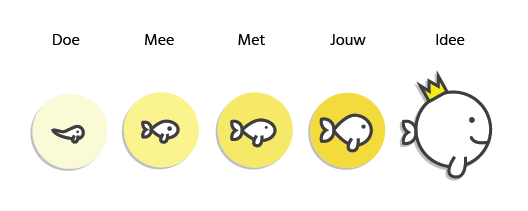
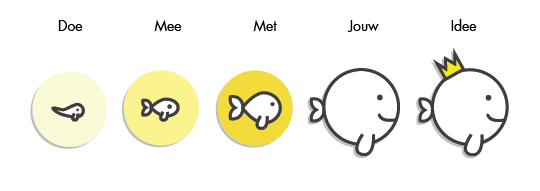
badges

diff --git a/src/client/js/IdeaOverviewPage.js b/src/client/js/IdeaOverviewPage.js
@@ -1,6 +1,7 @@
 //=require Menu.js
 //=require VoteButtons.js
 //=require Models.js
+//=require Badge.js
 
 var IdeaOverviewPage = {
     view: function() {
@@ -60,7 +61,7 @@ var SubmitCard = {
     view: function(ctrl) {
         return m("form", {class: "ui card", onsubmit: ctrl.submit.bind(ctrl)}, [
             m("input", {class: "ui", name: "title", placeholder: "Geef je idee een titel..."}),
-            m("textarea", {class: "ui", name: "summary", placeholder: "Omschrijf je idee..."}),
+            m("textarea", {class: "ui", name: "summary", placeholder: "Omschrijf kort je idee..."}),
             (function(){
                 if(!ctrl.emailisvisible()) return m("input", {class: "ui", name: "email", placeholder: "Email adres..."});
             })(),
@@ -99,15 +100,10 @@ var IdeaCard = {
     },
     view: function(ctrl, data){
         ctrl.id = data._id;
-        var image = data.additions+1;
-        if(image > 4) {
-            image = 4;
-        }
-
         return m("div", {class: "ui card ideacard"}, [
             m("div", {class: "top"},[
                 m("div", {class: "status"}, [
-                    m("img", {src:"static/stage"+image+".png"})
+                    m.component(Badge, data.additions)
                 ]),
                 m("div", {class: "info"}, [
                     m("h3",{class: "ui", onclick: ctrl.open.bind(ctrl)}, data.title),

diff --git a/src/client/js/IdeaDetailPage.js b/src/client/js/IdeaDetailPage.js
@@ -3,6 +3,7 @@
 //=require Models.js
 //=require SwitchBar.js
 //=require MediaInput.js
+//=require Badge.js
 
 var IdeaDetailPage = {
     controller: function(){
@@ -35,12 +36,8 @@ var IdeaData = {
         };
     },
     view: function(ctrl, idea) {
-        var image = idea.additions.length+1;
-        if(image > 4) {
-            image = 4;
-        }
         return m("div", {class: "ui card stats"}, [
-            m("img", {src:"static/stage"+image+".png"}),
+            m.component(Badge, idea.additions.length),
             m.component(VoteButtons, idea.yourvote, ctrl.onvote.bind(ctrl)),
             m("span", {class: "metric"}, [
                 m("span", {class:"number"}, idea.votecount),
@@ -57,6 +54,10 @@ var IdeaData = {
 var IdeaText = {
     view: function(ctrl, idea) {
         return m("div", {class: "ui card"}, [
+            (function(){
+                if(idea.owner.name) {return m("p", {class: "label"}, "Idee van: "+idea.owner.name);}
+            })(),
+
             m("h1", {class: "ui"}, idea.title),
             m("p", {class: ""}, idea.summary)
         ]);

diff --git a/src/server/database.js b/src/server/database.js
@@ -111,7 +111,7 @@ module.exports = (function(){
         var ideaDoc = new Idea(idea);
         ideaDoc.save(function(err, data) {
             if(err) return callback({succes: false, message: "duplicate"});
-            if(callback) return callback({succes: false, idea:data.getPublic()});
+            if(callback) return callback({succes: true, idea:data.getPublic()});
         });
     }
 

diff --git a/src/client/js/Badge.js b/src/client/js/Badge.js
@@ -1,0 +1,13 @@
+var Badge = {
+    controller: function(){
+
+    },
+    view: function(ctrl, length){
+        var image = 1;
+        if(length > 0) { image = 2; }
+        if(length > 2) { image = 3; }
+        if(length > 4) { image = 4; }
+
+        return m("img", {src:"static/stage"+image+".png"});
+    }
+};

diff --git a/src/client/style/theme/components/additioncards.less b/src/client/style/theme/components/additioncards.less
@@ -28,7 +28,7 @@
     padding-bottom: 5px !important;
 }
 
-.addition .label {
+.card .label, {
     font-size: 12px;
     color: #555555;
 }

diff --git a/src/client/js/Footer.js b/src/client/js/Footer.js
@@ -1,0 +1,5 @@
+var Footer = {
+    view: function(){
+
+    }
+};
